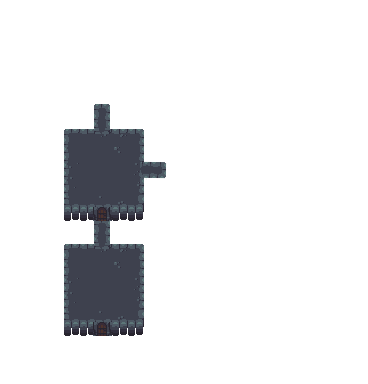
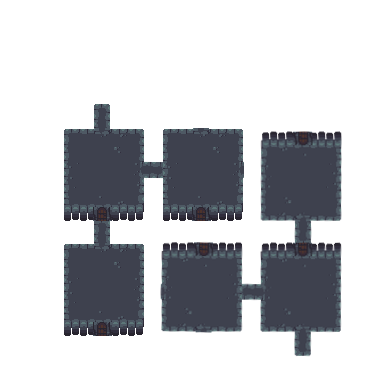
Fixed the wird arrow behavior when going right and down

Changed region(s): [[0.4185, 0.3125, 0.9266, 0.9375]]

diff --git a/Infinite Dungeon/archer.py b/Infinite Dungeon/archer.py
@@ -15,10 +15,10 @@ class Archer(Drawable):
     _movement = {pygame.K_DOWN: False, pygame.K_UP: False,
                  pygame.K_LEFT: False, pygame.K_RIGHT: False}
     _position = Vector2(0, 0)
-    _velocity = 1
+    _velocity = 4
     _image = pygame.Surface((25, 30))
 
-    def __init__(self, worldPosition):
+    def __init__(self):
         tempSurface = pygame.Surface((25, 30))
         spriteSheet = pygame.image.load(os.path.join(
                                                 "images",
@@ -27,8 +27,6 @@ class Archer(Drawable):
         grabberRectangle = pygame.Rect(24, 20, 50, 50)
         tempSurface.blit(spriteSheet, (0, 0), grabberRectangle)
         self._image = tempSurface
-
-        self._worldPosition = worldPosition * -1
 
     def handleEvent(self, event):
         """Given an event, change the appropriate value in
@@ -47,16 +45,16 @@ class Archer(Drawable):
                 self._movement[pygame.K_RIGHT] = True
 
         elif event.type == pygame.KEYUP:
-            if event.key == event.key == ord("s"):
+            if event.key == ord("s"):
                 self._movement[pygame.K_DOWN] = False
 
-            elif event.key == event.key == ord("w"):
+            elif event.key == ord("w"):
                 self._movement[pygame.K_UP] = False
 
-            elif event.key == event.key == ord("a"):
+            elif event.key == ord("a"):
                 self._movement[pygame.K_LEFT] = False
 
-            elif event.key == event.key == ord("d"):
+            elif event.key == ord("d"):
                 self._movement[pygame.K_RIGHT] = False
 
     def update(self):
@@ -66,16 +64,12 @@ class Archer(Drawable):
             if self._movement[key]:
                 if key == pygame.K_DOWN:
                     self._position[1] += self._velocity
-                    self._worldPosition[1] += self._velocity
 
                 elif key == pygame.K_UP:
                     self._position[1] -= self._velocity
-                    self._worldPosition[1] -= self._velocity
 
                 elif key == pygame.K_LEFT:
                     self._position[0] -= self._velocity
-                    self._worldPosition[0] -= self._velocity
 
                 elif key == pygame.K_RIGHT:
                     self._position[0] += self._velocity
-                    self._worldPosition[0] += self._velocity

diff --git a/Infinite Dungeon/main.py b/Infinite Dungeon/main.py
@@ -13,11 +13,11 @@ from copy import deepcopy
 from target import Target
 
 
-WORLD_SIZE = Vector2(1000, 1000)
-SCREEN_SIZE = Vector2(294, 600)
-SCALE_FACTOR = 1.5
+WORLD_SIZE = Vector2(1200, 1200)
+SCREEN_SIZE = Vector2(800, 800)
+SCALE_FACTOR = 1 
 UPSCALED = SCREEN_SIZE * SCALE_FACTOR
-BEGINNING = Vector2(-125, -550)
+BEGINNING = Vector2(-600, -600)
 ARROW_KEYS = [pygame.K_DOWN, pygame.K_UP,
               pygame.K_LEFT, pygame.K_RIGHT]
 WASD_KEYS = [ord("s"), ord("w"), ord("a"), ord("d")]
@@ -41,13 +41,14 @@ def main():
     drawSurface = pygame.Surface(list(SCREEN_SIZE))
 
     # Stuff for the hero character
-    archer = Archer(BEGINNING)
+    archer = Archer()
     # List of arrows to keep track of them
     arrows = []
 
     # List of the targets
     targets = []
     targets.append(Target(Vector2(100, 100)))
+    targets.append(Target(Vector2(700,700)))
 
     spawned = False
 
@@ -60,19 +61,15 @@ def main():
     while RUNNING:
 
         # Blit the background
-        drawSurface.blit(background, (0, 0))
+        drawSurface.blit(background, list(offset))
 
         # Blit the dungeon floor
-        drawSurface.blit(dungeonFloor, (0, 0))
+        drawSurface.blit(dungeonFloor, list(offset * -1))
 
-        # for the initial spawn, spawn at the beginning
-        if spawned:
-            archer.draw(drawSurface, offset)
-        else:
-            archer.draw(drawSurface, BEGINNING)
+        archer.draw(drawSurface, offset)
 
         for arrow in arrows:
-            arrow.draw(drawSurface)
+            arrow.draw(drawSurface, offset)
 
         for target in targets:
             target.draw(drawSurface, offset)
@@ -92,7 +89,8 @@ def main():
             elif event.type == pygame.KEYDOWN:
                 # If the key in an arrow, apply it to the player's arrows 
                 if event.key in ARROW_KEYS:
-                    arrow = Arrow(deepcopy(archer.getWorldPosition()))
+                    print(archer.getPosition())
+                    arrow = Arrow(deepcopy(archer.getPosition()))
                     # Set the direction based on what arrow was hit
                     arrow.changeDirection(event)
                     arrows.append(arrow)

diff --git a/Infinite Dungeon/arrow.py b/Infinite Dungeon/arrow.py
@@ -11,19 +11,21 @@ from projectile import Projectile
 
 class Arrow(Projectile):
 
-    # 0 means horizontal, 1 means vertical
-    _direction = 0
 
     def __init__(self, initialPosition):
         # All code to get the image and set it
         sprite = pygame.image.load(os.path.join
                                    ("images", "arrow.png")).convert()
+
         grabberRectangle = pygame.Rect(12, 9, 8, 23)
         self._image = pygame.Surface((8, 23))
         self._image.blit(sprite, (0, 0), grabberRectangle)
 
         # The initial position is the location of the archer
         self._position = initialPosition
+
+        # 0 means horizontal, 1 means vertical
+        self._direction = 0
 
         # Variable used to track direction arrows fly
         self._posOrNeg = 1
@@ -47,25 +49,25 @@ class Arrow(Projectile):
             self._direction = 0
             self._posOrNeg = 1
 
-    def draw(self, surface):
+    def draw(self, surface, offset):
         # Shooting down
         if self._direction == 1 and self._posOrNeg == 1:
             # Start it on the archer
-            surface.blit(self._image, list(self._position))
+            surface.blit(self._image, list(self._position - offset))
 
         # Shooting up
         elif self._direction == 1 and self._posOrNeg == -1:
             surface.blit(pygame.transform.rotate(self._image, 180),
-                         list(self._position))
+                         list(self._position - offset))
         # Shooting left
         elif self._direction == 0 and self._posOrNeg == -1:
             surface.blit(pygame.transform.rotate(self._image, 270),
-                         list(self._position))
+                         list(self._position - offset))
 
         # Shooting right
         elif self._direction == 0 and self._posOrNeg == 1:
             surface.blit(pygame.transform.rotate(self._image, 90),
-                         list(self._position))
+                         list(self._position - offset))
 
     def update(self):
         # Update the position based on the velocity and direction

diff --git a/Infinite Dungeon/target.py b/Infinite Dungeon/target.py
@@ -15,8 +15,8 @@ import os
 class Target(Drawable):
 
     def __init__(self, position):
-        sprite = pygame.image.load(os.path.join("images", "range.png")).convert_alpha()
-        self._image = pygame.Surface((64, 64))
+        sprite = pygame.image.load(os.path.join("images", "rangeSmaller.png")).convert_alpha()
+        self._image = pygame.Surface((16, 16))
         self._image.blit(sprite, (0, 0))
    
         self._position = position 

diff --git a/Infinite Dungeon/drawable.py b/Infinite Dungeon/drawable.py
@@ -12,7 +12,6 @@ class Drawable:
     _isDead = False
     _imageName = ""
     _image = None
-    _worldPosition = Vector2(0, 0)
     _position = Vector2(0, 0)
     _velocity = Vector2(0, 0)
 
